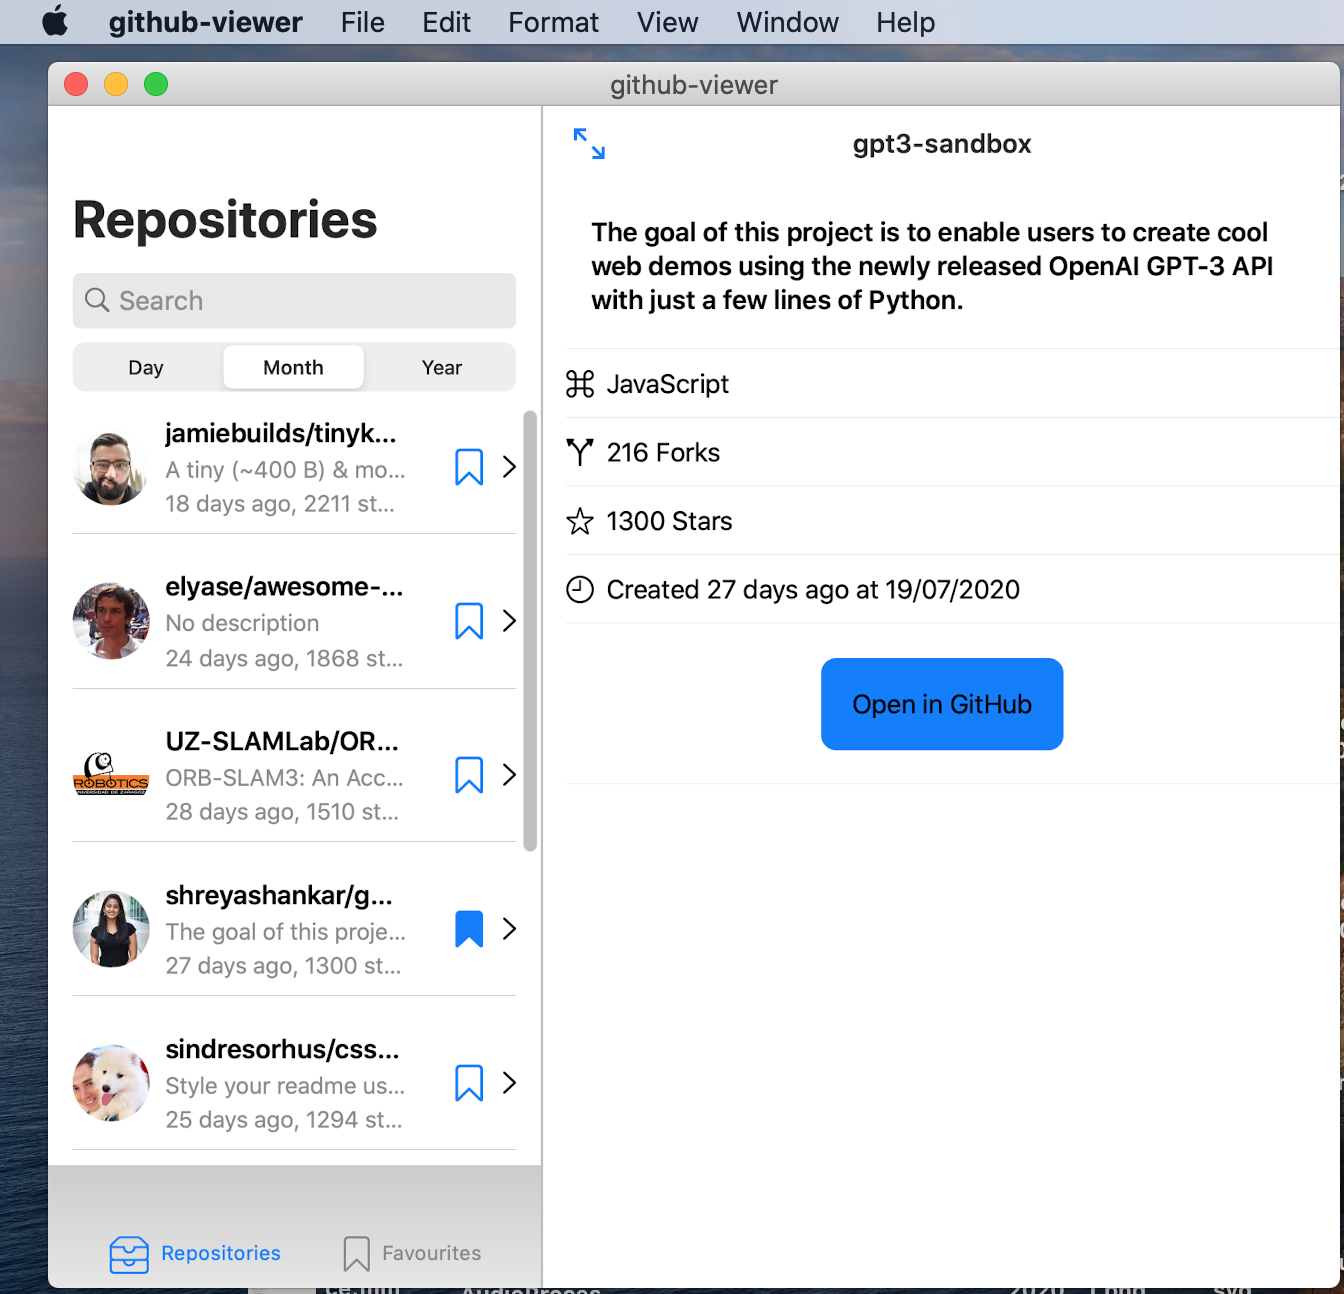
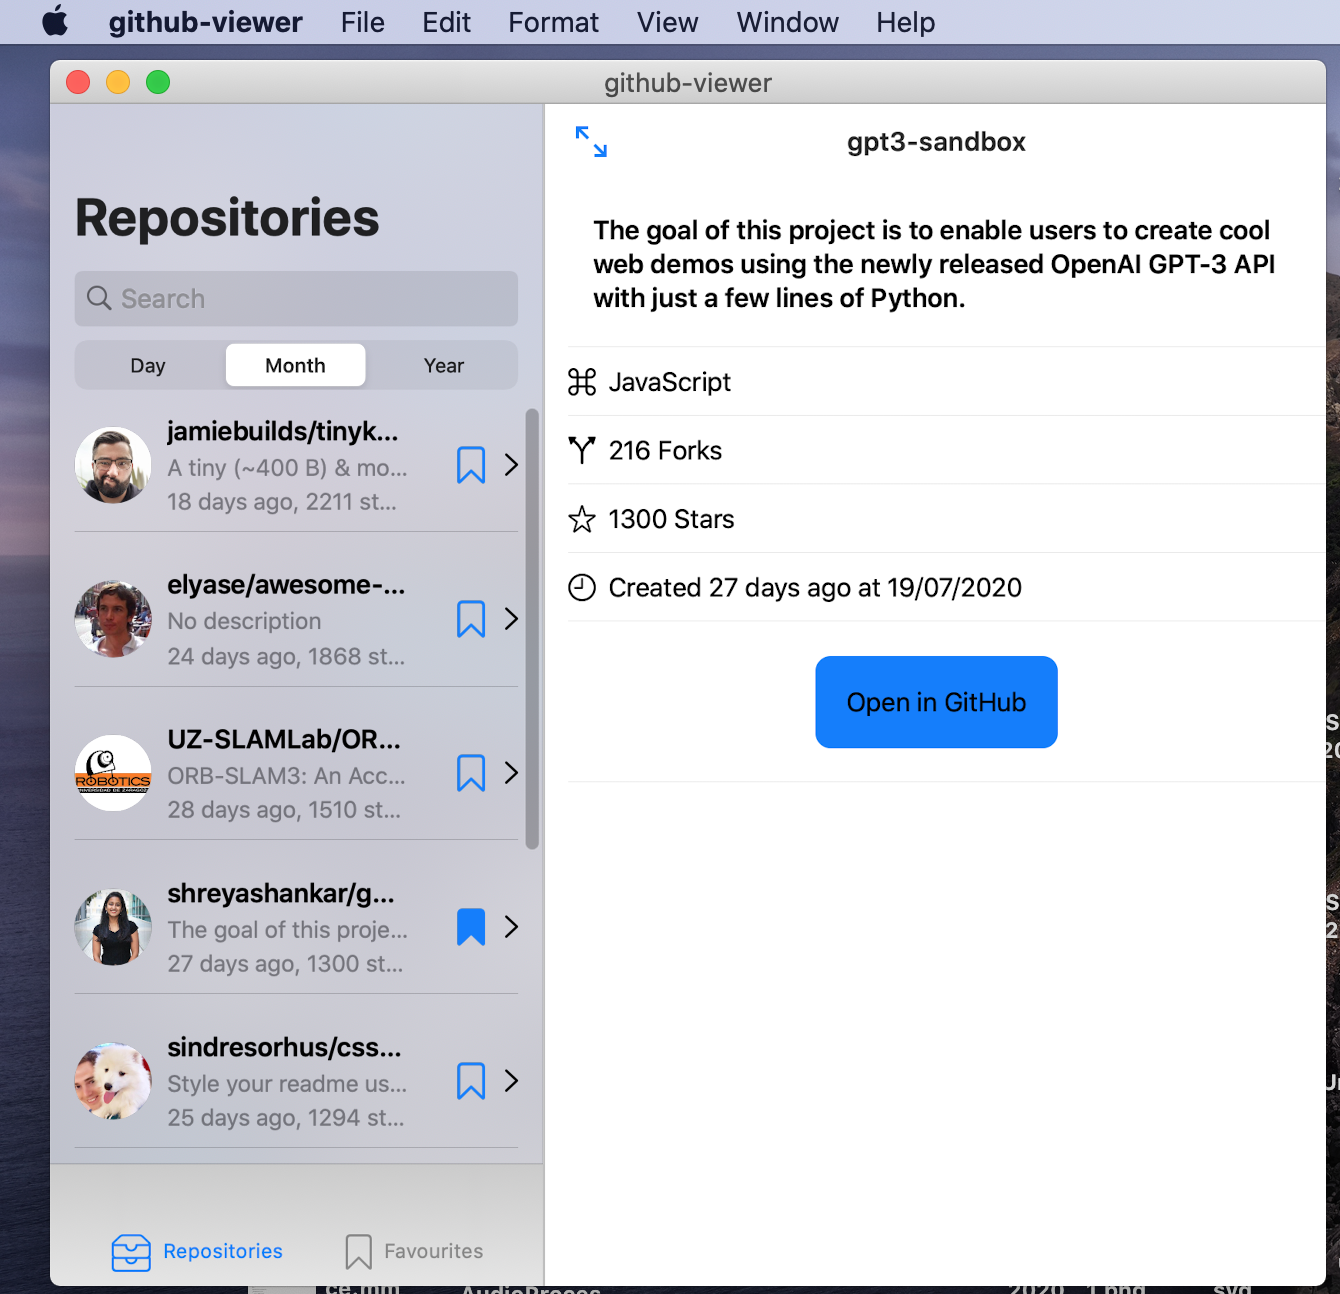
macCatalyst cosmetic fix

diff --git a/github-viewer/MasterController.swift b/github-viewer/MasterController.swift
@@ -34,6 +34,9 @@ class MasterController: UIViewController {
         super.viewDidLoad()
         
         title = localized(.repositories)
+        #if targetEnvironment(macCatalyst)
+        view.backgroundColor = .clear
+        #endif
         
         let controllers = splitViewController!.viewControllers
         detailController = (controllers.last as! UINavigationController).topViewController as? DetailController
@@ -77,6 +80,9 @@ extension MasterController {
         collectionView.register(MasterRowCell.self, forCellWithReuseIdentifier: MasterRowCell.identifier)
         collectionView.delegate = self
         dataSource = DataSource(collectionView: collectionView, cellProvider: cellProvider)
+        #if targetEnvironment(macCatalyst)
+        collectionView.backgroundColor = .clear
+        #endif
     }
     
     private func cellProvider(_ collectionView: UICollectionView, _ indexPath: IndexPath, _ item: RepoItem) -> UICollectionViewCell? {

diff --git a/github-viewer/AppDelegate.swift b/github-viewer/AppDelegate.swift
@@ -18,6 +18,9 @@ extension AppDelegate: UIApplicationDelegate {
     func application(_ application: UIApplication, didFinishLaunchingWithOptions launchOptions: [UIApplication.LaunchOptionsKey: Any]?) -> Bool {
         let svc = window!.rootViewController as! UISplitViewController
         svc.preferredDisplayMode = .allVisible
+        #if targetEnvironment(macCatalyst)
+        svc.primaryBackgroundStyle = .sidebar
+        #endif
         let nav = svc.viewControllers.last as! UINavigationController
         nav.topViewController!.navigationItem.leftBarButtonItem = svc.displayModeButtonItem
         svc.delegate = self

diff --git a/github-viewer/MasterRowCell.swift b/github-viewer/MasterRowCell.swift
@@ -25,6 +25,9 @@ class MasterRowCell: UICollectionViewCell {
             if let item = item {
                 vc = UIHostingController(rootView: MasterRowView(item: item))
                 let v = vc.view!
+                #if targetEnvironment(macCatalyst)
+                v.backgroundColor = .clear
+                #endif
                 v.frame = contentView.bounds
                 v.autoresizingMask = .flexibleSize
                 v.translatesAutoresizingMaskIntoConstraints = true

diff --git a/github-viewer/DetailController.swift b/github-viewer/DetailController.swift
@@ -25,6 +25,9 @@ class DetailController: UIViewController {
                 vc = UIHostingController(rootView: DetailView(item: item))
                 addChild(vc)
                 let v = vc.view!
+                #if targetEnvironment(macCatalyst)
+                v.backgroundColor = .clear
+                #endif
                 v.frame = view.bounds
                 v.autoresizingMask = .flexibleSize
                 view.addSubview(v)
